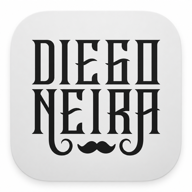
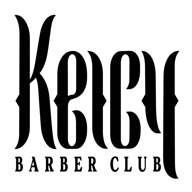
feat: actualizar branding completo a Keicy Barber Club
- Reemplazar logos e iconos PWA con nuevo logo de Keicy
- Actualizar referencias de Diego Neira a Keicy Barber Club en:
  - HTML (index, auth, recibo, resena, barbero, admin)
  - CSS (mobile-admin, agenda, barbero-white)
  - Funciones Supabase (emails, WhatsApp, calendar)
  - Configuración (robots.txt, sitemap.xml, sw.js)
- Actualizar redes sociales a @keicy_barber_club
- Eliminar logo antiguo logo-diego-neira.svg

diff --git a/index.html b/index.html
@@ -3132,7 +3132,7 @@
           <h2 class="section-title"><span class="gold">SEDES EN BOGOTÁ</span></h2>
           <p class="section-subtitle">BARBERÍA PREMIUM EN EL NORTE Y SUR DE BOGOTÁ</p>
         </div>
-        <a href="https://maps.google.com/?q=Diego+Neira+Barber+Bogota" target="_blank" class="btn-link">
+        <a href="https://maps.google.com/?q=Keicy+Barber+Club+Bogota" target="_blank" class="btn-link">
           VER EN MAPA
           <svg width="14" height="14" viewBox="0 0 24 24" fill="none" stroke="currentColor" stroke-width="2"><path d="M5 12h14M12 5l7 7-7 7"/></svg>
         </a>
@@ -3236,7 +3236,7 @@
           <h2 class="gallery-title"><span class="gold">GALERÍA</span></h2>
           <span class="gallery-subtitle">ESTILO REAL, RESULTADOS REALES</span>
         </div>
-        <a href="https://instagram.com/diego_neira_barber" target="_blank" class="btn-link">
+        <a href="https://instagram.com/keicy_barber_club" target="_blank" class="btn-link">
           VER MÁS
           <svg width="14" height="14" viewBox="0 0 24 24" fill="none" stroke="currentColor" stroke-width="2"><path d="M5 12h14M12 5l7 7-7 7"/></svg>
         </a>
@@ -3372,11 +3372,11 @@
           <svg viewBox="0 0 24 24" fill="currentColor"><path d="M17.472 14.382c-.297-.149-1.758-.867-2.03-.967-.273-.099-.471-.148-.67.15-.197.297-.767.966-.94 1.164-.173.199-.347.223-.644.075-.297-.15-1.255-.463-2.39-1.475-.883-.788-1.48-1.761-1.653-2.059-.173-.297-.018-.458.13-.606.134-.133.298-.347.446-.52.149-.174.198-.298.298-.497.099-.198.05-.371-.025-.52-.075-.149-.669-1.612-.916-2.207-.242-.579-.487-.5-.669-.51-.173-.008-.371-.01-.57-.01-.198 0-.52.074-.792.372-.272.297-1.04 1.016-1.04 2.479 0 1.462 1.065 2.875 1.213 3.074.149.198 2.096 3.2 5.077 4.487.709.306 1.262.489 1.694.625.712.227 1.36.195 1.871.118.571-.085 1.758-.719 2.006-1.413.248-.694.248-1.289.173-1.413-.074-.124-.272-.198-.57-.347m-5.421 7.403h-.004a9.87 9.87 0 01-5.031-1.378l-.361-.214-3.741.982.998-3.648-.235-.374a9.86 9.86 0 01-1.51-5.26c.001-5.45 4.436-9.884 9.888-9.884 2.64 0 5.122 1.03 6.988 2.898a9.825 9.825 0 012.893 6.994c-.003 5.45-4.437 9.884-9.885 9.884m8.413-18.297A11.815 11.815 0 0012.05 0C5.495 0 .16 5.335.157 11.892c0 2.096.547 4.142 1.588 5.945L.057 24l6.305-1.654a11.882 11.882 0 005.683 1.448h.005c6.554 0 11.89-5.335 11.893-11.893a11.821 11.821 0 00-3.48-8.413z"/></svg>
           <span>ESCRÍBENOS<br>POR WHATSAPP</span>
         </a>
-        <a href="https://instagram.com/diego_neira_barber" target="_blank">
+        <a href="https://instagram.com/keicy_barber_club" target="_blank">
           <svg viewBox="0 0 24 24" fill="currentColor"><path d="M12 2.163c3.204 0 3.584.012 4.85.07 3.252.148 4.771 1.691 4.919 4.919.058 1.265.069 1.645.069 4.849 0 3.205-.012 3.584-.069 4.849-.149 3.225-1.664 4.771-4.919 4.919-1.266.058-1.644.07-4.85.07-3.204 0-3.584-.012-4.849-.07-3.26-.149-4.771-1.699-4.919-4.92-.058-1.265-.07-1.644-.07-4.849 0-3.204.013-3.583.07-4.849.149-3.227 1.664-4.771 4.919-4.919 1.266-.057 1.645-.069 4.849-.069zm0-2.163c-3.259 0-3.667.014-4.947.072-4.358.2-6.78 2.618-6.98 6.98-.059 1.281-.073 1.689-.073 4.948 0 3.259.014 3.668.072 4.948.2 4.358 2.618 6.78 6.98 6.98 1.281.058 1.689.072 4.948.072 3.259 0 3.668-.014 4.948-.072 4.354-.2 6.782-2.618 6.979-6.98.059-1.28.073-1.689.073-4.948 0-3.259-.014-3.667-.072-4.947-.196-4.354-2.617-6.78-6.979-6.98-1.281-.059-1.69-.073-4.949-.073zm0 5.838c-3.403 0-6.162 2.759-6.162 6.162s2.759 6.163 6.162 6.163 6.162-2.759 6.162-6.163c0-3.403-2.759-6.162-6.162-6.162zm0 10.162c-2.209 0-4-1.79-4-4 0-2.209 1.791-4 4-4s4 1.791 4 4c0 2.21-1.791 4-4 4zm6.406-11.845c-.796 0-1.441.645-1.441 1.44s.645 1.44 1.441 1.44c.795 0 1.439-.645 1.439-1.44s-.644-1.44-1.439-1.44z"/></svg>
           <span>SÍGUENOS EN<br>INSTAGRAM</span>
         </a>
-        <a href="https://tiktok.com/@diego_neira_barber" target="_blank">
+        <a href="https://tiktok.com/@keicy_barber_club" target="_blank">
           <svg viewBox="0 0 24 24" fill="currentColor"><path d="M19.59 6.69a4.83 4.83 0 01-3.77-4.25V2h-3.45v13.67a2.89 2.89 0 01-5.2 1.74 2.89 2.89 0 012.31-4.64 2.93 2.93 0 01.88.13V9.4a6.84 6.84 0 00-1-.05A6.33 6.33 0 005 20.1a6.34 6.34 0 0010.86-4.43v-7a8.16 8.16 0 004.77 1.52v-3.4a4.85 4.85 0 01-1-.1z"/></svg>
           <span>SÍGUENOS EN<br>TIKTOK</span>
         </a>
@@ -3391,7 +3391,7 @@
         <div class="logo">
           <img src="assets/logo-transparent.png" alt="Keicy Barber">
         </div>
-        <p class="footer-tagline">DIEGO NEIRA BARBER CLUB®</p>
+        <p class="footer-tagline">KEICY BARBER CLUB®</p>
         <p class="footer-location">Bogotá, Colombia</p>
       </div>
 
@@ -3423,14 +3423,14 @@
           <a href="https://wa.me/573212319355" target="_blank" aria-label="WhatsApp">
             <svg viewBox="0 0 24 24" fill="currentColor"><path d="M17.472 14.382c-.297-.149-1.758-.867-2.03-.967-.273-.099-.471-.148-.67.15-.197.297-.767.966-.94 1.164-.173.199-.347.223-.644.075-.297-.15-1.255-.463-2.39-1.475-.883-.788-1.48-1.761-1.653-2.059-.173-.297-.018-.458.13-.606.134-.133.298-.347.446-.52.149-.174.198-.298.298-.497.099-.198.05-.371-.025-.52-.075-.149-.669-1.612-.916-2.207-.242-.579-.487-.5-.669-.51-.173-.008-.371-.01-.57-.01-.198 0-.52.074-.792.372-.272.297-1.04 1.016-1.04 2.479 0 1.462 1.065 2.875 1.213 3.074.149.198 2.096 3.2 5.077 4.487.709.306 1.262.489 1.694.625.712.227 1.36.195 1.871.118.571-.085 1.758-.719 2.006-1.413.248-.694.248-1.289.173-1.413-.074-.124-.272-.198-.57-.347m-5.421 7.403h-.004a9.87 9.87 0 01-5.031-1.378l-.361-.214-3.741.982.998-3.648-.235-.374a9.86 9.86 0 01-1.51-5.26c.001-5.45 4.436-9.884 9.888-9.884 2.64 0 5.122 1.03 6.988 2.898a9.825 9.825 0 012.893 6.994c-.003 5.45-4.437 9.884-9.885 9.884m8.413-18.297A11.815 11.815 0 0012.05 0C5.495 0 .16 5.335.157 11.892c0 2.096.547 4.142 1.588 5.945L.057 24l6.305-1.654a11.882 11.882 0 005.683 1.448h.005c6.554 0 11.89-5.335 11.893-11.893a11.821 11.821 0 00-3.48-8.413z"/></svg>
           </a>
-          <a href="https://instagram.com/diego_neira_barber" target="_blank" aria-label="Instagram">
+          <a href="https://instagram.com/keicy_barber_club" target="_blank" aria-label="Instagram">
             <svg viewBox="0 0 24 24" fill="currentColor"><path d="M12 2.163c3.204 0 3.584.012 4.85.07 3.252.148 4.771 1.691 4.919 4.919.058 1.265.069 1.645.069 4.849 0 3.205-.012 3.584-.069 4.849-.149 3.225-1.664 4.771-4.919 4.919-1.266.058-1.644.07-4.85.07-3.204 0-3.584-.012-4.849-.07-3.26-.149-4.771-1.699-4.919-4.92-.058-1.265-.07-1.644-.07-4.849 0-3.204.013-3.583.07-4.849.149-3.227 1.664-4.771 4.919-4.919 1.266-.057 1.645-.069 4.849-.069zm0-2.163c-3.259 0-3.667.014-4.947.072-4.358.2-6.78 2.618-6.98 6.98-.059 1.281-.073 1.689-.073 4.948 0 3.259.014 3.668.072 4.948.2 4.358 2.618 6.78 6.98 6.98 1.281.058 1.689.072 4.948.072 3.259 0 3.668-.014 4.948-.072 4.354-.2 6.782-2.618 6.979-6.98.059-1.28.073-1.689.073-4.948 0-3.259-.014-3.667-.072-4.947-.196-4.354-2.617-6.78-6.979-6.98-1.281-.059-1.69-.073-4.949-.073zm0 5.838c-3.403 0-6.162 2.759-6.162 6.162s2.759 6.163 6.162 6.163 6.162-2.759 6.162-6.163c0-3.403-2.759-6.162-6.162-6.162zm0 10.162c-2.209 0-4-1.79-4-4 0-2.209 1.791-4 4-4s4 1.791 4 4c0 2.21-1.791 4-4 4zm6.406-11.845c-.796 0-1.441.645-1.441 1.44s.645 1.44 1.441 1.44c.795 0 1.439-.645 1.439-1.44s-.644-1.44-1.439-1.44z"/></svg>
           </a>
-          <a href="https://tiktok.com/@diego_neira_barber" target="_blank" aria-label="TikTok">
+          <a href="https://tiktok.com/@keicy_barber_club" target="_blank" aria-label="TikTok">
             <svg viewBox="0 0 24 24" fill="currentColor"><path d="M19.59 6.69a4.83 4.83 0 01-3.77-4.25V2h-3.45v13.67a2.89 2.89 0 01-5.2 1.74 2.89 2.89 0 012.31-4.64 2.93 2.93 0 01.88.13V9.4a6.84 6.84 0 00-1-.05A6.33 6.33 0 005 20.1a6.34 6.34 0 0010.86-4.43v-7a8.16 8.16 0 004.77 1.52v-3.4a4.85 4.85 0 01-1-.1z"/></svg>
           </a>
         </div>
-        <p class="footer-handle">@diego_neira_barber</p>
+        <p class="footer-handle">@keicy_barber_club</p>
       </div>
     </div>
 

diff --git a/supabase/functions/send-service-completed-email/index.ts b/supabase/functions/send-service-completed-email/index.ts
@@ -4,8 +4,8 @@ import { createClient } from "https://esm.sh/@supabase/supabase-js@2";
 const BREVO_API_KEY = Deno.env.get("BREVO_API_KEY");
 const SUPABASE_URL = Deno.env.get("SUPABASE_URL") || "";
 const SUPABASE_SERVICE_KEY = Deno.env.get("SUPABASE_SERVICE_ROLE_KEY") || "";
-const FROM_EMAIL = "citas@diegoneirabarber.com";
-const FROM_NAME = "Diego Neira Barbería";
+const FROM_EMAIL = "citas@keicybarberclub.com";
+const FROM_NAME = "Keicy Barber Club";
 
 interface ServicioCompletadoData {
   cliente_nombre: string;
@@ -69,7 +69,7 @@ function generateEmailHTML(data: ServicioCompletadoData): string {
     ? data.metodo_pago.charAt(0).toUpperCase() + data.metodo_pago.slice(1)
     : "";
 
-  const resenaLink = `https://www.diegoneirabarber.com/resena/?c=${encodeURIComponent(data.cita_id)}`;
+  const resenaLink = `https://www.keicybarberclub.com/resena/?c=${encodeURIComponent(data.cita_id)}`;
   const googleMapsLink = data.google_maps_link || "https://g.page/r/Cac1YymF3Bu0EBM/review";
 
   return `
@@ -78,7 +78,7 @@ function generateEmailHTML(data: ServicioCompletadoData): string {
 <head>
   <meta charset="UTF-8">
   <meta name="viewport" content="width=device-width, initial-scale=1.0">
-  <title>Gracias por tu visita - Diego Neira Barbería</title>
+  <title>Gracias por tu visita - Keicy Barber Club</title>
 </head>
 <body style="margin:0; padding:0; background-color:#FFFFFF; font-family:'Georgia', 'Times New Roman', serif;">
   <table role="presentation" width="100%" cellspacing="0" cellpadding="0" style="background-color:#FFFFFF;">
@@ -92,7 +92,7 @@ function generateEmailHTML(data: ServicioCompletadoData): string {
               <table role="presentation" width="100" height="100" cellspacing="0" cellpadding="0" style="margin:0 auto;">
                 <tr>
                   <td align="center" valign="middle" style="width:100px; height:100px; border-radius:50%; background-color:#FFFFFF; border:2px solid #E5E5E5;">
-                    <img src="https://www.diegoneirabarber.com/assets/logo.png" alt="Diego Neira Barbería" width="60" height="60" style="width:60px; height:60px; display:block;">
+                    <img src="https://www.keicybarberclub.com/assets/logo.png" alt="Keicy Barber Club" width="60" height="60" style="width:60px; height:60px; display:block;">
                   </td>
                 </tr>
               </table>
@@ -159,7 +159,7 @@ function generateEmailHTML(data: ServicioCompletadoData): string {
                       <tr>
                         <td width="50%">
                           <p style="margin:0; color:#D4AF55; font-size:11px; font-weight:700; text-transform:uppercase; letter-spacing:1px; font-family:-apple-system, BlinkMacSystemFont, 'Segoe UI', Roboto, sans-serif;">Atendido por</p>
-                          <p style="margin:6px 0 0; color:#111111; font-size:14px; font-weight:600; font-family:-apple-system, BlinkMacSystemFont, 'Segoe UI', Roboto, sans-serif;">${data.barbero_nombre || "Diego Neira Barbería"}</p>
+                          <p style="margin:6px 0 0; color:#111111; font-size:14px; font-weight:600; font-family:-apple-system, BlinkMacSystemFont, 'Segoe UI', Roboto, sans-serif;">${data.barbero_nombre || "Keicy Barber Club"}</p>
                         </td>
                         <td width="50%">
                           <p style="margin:0; color:#D4AF55; font-size:11px; font-weight:700; text-transform:uppercase; letter-spacing:1px; font-family:-apple-system, BlinkMacSystemFont, 'Segoe UI', Roboto, sans-serif;">Sede</p>
@@ -236,7 +236,7 @@ function generateEmailHTML(data: ServicioCompletadoData): string {
           <tr>
             <td align="center" style="padding:0 24px 32px;">
               <p style="margin:0; color:#999999; font-size:11px; font-family:-apple-system, BlinkMacSystemFont, 'Segoe UI', Roboto, sans-serif;">
-                Diego Neira Barbería · ${data.sede_direccion}
+                Keicy Barber Club · ${data.sede_direccion}
               </p>
             </td>
           </tr>

diff --git a/supabase/functions/send-confirmation-email/index.ts b/supabase/functions/send-confirmation-email/index.ts
@@ -4,8 +4,8 @@ import { createClient } from "https://esm.sh/@supabase/supabase-js@2";
 const BREVO_API_KEY = Deno.env.get("BREVO_API_KEY");
 const SUPABASE_URL = Deno.env.get("SUPABASE_URL") || "";
 const SUPABASE_SERVICE_KEY = Deno.env.get("SUPABASE_SERVICE_ROLE_KEY") || "";
-const FROM_EMAIL = "citas@diegoneirabarber.com";
-const FROM_NAME = "Diego Neira Barbería";
+const FROM_EMAIL = "citas@keicybarberclub.com";
+const FROM_NAME = "Keicy Barber Club";
 
 interface CitaData {
   cita_id: string;
@@ -78,7 +78,7 @@ function generateCalendarLinks(data: CitaData): { google: string; outlook: strin
   const startStr = formatGoogleDate(startDate);
   const endStr = formatGoogleDate(endDate);
 
-  const title = encodeURIComponent(`Cita en Diego Neira Barbería - ${data.servicio_nombre}`);
+  const title = encodeURIComponent(`Cita en Keicy Barber Club - ${data.servicio_nombre}`);
   const location = encodeURIComponent(`${data.sede_nombre}, ${data.sede_direccion}`);
   const details = encodeURIComponent(
     `Servicio: ${data.servicio_nombre}\n` +
@@ -108,10 +108,10 @@ function generateCalendarLinks(data: CitaData): { google: string; outlook: strin
   const ics = `https://zzmtnjlfrlqmouijfste.supabase.co/functions/v1/calendar-ics?${icsParams.toString()}`;
 
   // Link de cancelación
-  const cancelUrl = `https://www.diegoneirabarber.com/cancelar/?phone=${data.cliente_telefono}`;
+  const cancelUrl = `https://www.keicybarberclub.com/cancelar/?phone=${data.cliente_telefono}`;
 
   // Link de confirmación
-  const confirmUrl = `https://www.diegoneirabarber.com/confirmar/?id=${data.cita_id}`;
+  const confirmUrl = `https://www.keicybarberclub.com/confirmar/?id=${data.cita_id}`;
 
   return { google, outlook, ics, cancel: cancelUrl, confirm: confirmUrl };
 }
@@ -137,7 +137,7 @@ function generateEmailHTML(data: CitaData): string {
 <head>
   <meta charset="UTF-8">
   <meta name="viewport" content="width=device-width, initial-scale=1.0">
-  <title>Cita Agendada - Diego Neira Barbería</title>
+  <title>Cita Agendada - Keicy Barber Club</title>
 </head>
 <body style="margin:0; padding:0; background-color:#FFFFFF; font-family:'Georgia', 'Times New Roman', serif;">
   <table role="presentation" width="100%" cellspacing="0" cellpadding="0" style="background-color:#FFFFFF;">
@@ -148,7 +148,7 @@ function generateEmailHTML(data: CitaData): string {
           <!-- Logo -->
           <tr>
             <td align="center" style="padding:32px 24px 24px; text-align:center;">
-              <img src="https://www.diegoneirabarber.com/assets/logo.png" alt="Diego Neira Barbería" width="120" style="width:120px; height:auto; display:block; margin:0 auto;">
+              <img src="https://www.keicybarberclub.com/assets/logo.png" alt="Keicy Barber Club" width="120" style="width:120px; height:auto; display:block; margin:0 auto;">
             </td>
           </tr>
 
@@ -338,7 +338,7 @@ function generateEmailHTML(data: CitaData): string {
           <tr>
             <td align="center" style="padding:0 24px 32px;">
               <p style="margin:0; color:#999999; font-size:11px; font-family:-apple-system, BlinkMacSystemFont, 'Segoe UI', Roboto, sans-serif;">
-                Diego Neira Barbería
+                Keicy Barber Club
               </p>
             </td>
           </tr>

diff --git a/supabase/functions/calendar-ics/index.ts b/supabase/functions/calendar-ics/index.ts
@@ -16,7 +16,7 @@ serve(async (req) => {
     const hora = url.searchParams.get("hora") || "";
     const servicio = url.searchParams.get("servicio") || "Cita";
     const barbero = url.searchParams.get("barbero") || "Barbero disponible";
-    const sede = url.searchParams.get("sede") || "Diego Neira Barbería";
+    const sede = url.searchParams.get("sede") || "Keicy Barber Club";
     const direccion = url.searchParams.get("direccion") || "";
     const precio = url.searchParams.get("precio") || "0";
 
@@ -33,15 +33,15 @@ serve(async (req) => {
     const icsContent = [
       "BEGIN:VCALENDAR",
       "VERSION:2.0",
-      "PRODID:-//Diego Neira Barbería//ES",
+      "PRODID:-//Keicy Barber Club//ES",
       "CALSCALE:GREGORIAN",
       "METHOD:PUBLISH",
       "BEGIN:VEVENT",
-      `UID:${Date.now()}@diegoneirabarber.com`,
+      `UID:${Date.now()}@keicybarberclub.com`,
       `DTSTAMP:${formatICSDate(new Date())}`,
       `DTSTART:${formatICSDate(startDate)}`,
       `DTEND:${formatICSDate(endDate)}`,
-      `SUMMARY:Cita en Diego Neira - ${servicio}`,
+      `SUMMARY:Cita en Keicy Barber - ${servicio}`,
       `DESCRIPTION:Servicio: ${servicio}\\nBarbero: ${barbero}\\nPrecio: $${Number(precio).toLocaleString()} COP\\n\\n¡Te esperamos!`,
       `LOCATION:${sede}${direccion ? ", " + direccion : ""}`,
       "STATUS:CONFIRMED",
@@ -53,7 +53,7 @@ serve(async (req) => {
       headers: {
         ...corsHeaders,
         "Content-Type": "text/calendar; charset=utf-8",
-        "Content-Disposition": "attachment; filename=cita-diego-neira.ics"
+        "Content-Disposition": "attachment; filename=cita-keicy-barber-club.ics"
       }
     });
   } catch (error) {

diff --git a/admin/barberos.html b/admin/barberos.html
@@ -634,7 +634,7 @@
         <div class="field"><label>Años de experiencia</label><input type="number" id="editAnos" min="0" max="60"></div>
       </div>
       <div class="field" id="editPagoDiarioField" style="display:none;"><label>Pago diario ($)</label><input type="number" id="editPagoDiario" min="0"></div>
-      <div class="field"><label>Instagram (sin @)</label><input type="text" id="editInstagram" placeholder="diegoneira_barber"></div>
+      <div class="field"><label>Instagram (sin @)</label><input type="text" id="editInstagram" placeholder="keicy_barber"></div>
       <div class="field">
         <label>Día de descanso (siempre bloqueado)</label>
         <select id="editDiaDescanso">
@@ -923,7 +923,7 @@
 <script src="../assets/admin-sede-nav.js"></script>
 
 <script>
-  const BARBER_INVITE_CODE = 'DIEGO-NEIRA-BARBERO-2026';
+  const BARBER_INVITE_CODE = 'KEICY-BARBER-CLUB-2026';
   const DIA_NOMBRE = ['Domingo','Lunes','Martes','Miércoles','Jueves','Viernes','Sábado'];
 
   const toastEl = document.getElementById('toast');
@@ -1876,8 +1876,8 @@
     const a = admins.find(x => x.id === currentEditAdminId);
     if (!a) return;
 
-    // No permitir eliminar al admin principal (diegoneira)
-    if (a.username === 'diegoneira') {
+    // No permitir eliminar al admin principal (keicy)
+    if (a.username === 'keicy' || a.username === 'admin') {
       toast('No puedes eliminar al administrador principal.');
       return;
     }

diff --git a/supabase/functions/whatsapp-test-send/index.ts b/supabase/functions/whatsapp-test-send/index.ts
@@ -18,7 +18,7 @@ const SEDES = {
 
 const TEMPLATE_CONFIRMACION = 'confirmacion';
 const TEMPLATE_CONFIRMACION_165 = 'confirmacion_cita';
-const HEADER_IMAGE_URL = 'https://diegoneirabarber.com/assets/whatsapp-header.jpg';
+const HEADER_IMAGE_URL = 'https://keicybarberclub.com/assets/whatsapp-header.jpg';
 
 async function sendTemplateMessage(
   phoneNumberId: string,
@@ -52,7 +52,7 @@ async function sendTemplateMessage(
             { type: 'text', text: 'Hoy' },
             { type: 'text', text: fechaCompleta },
             { type: 'text', text: '3:00 PM' },
-            { type: 'text', text: 'Diego Neira' }
+            { type: 'text', text: 'Keicy Barber' }
           ]
         },
         {
@@ -135,11 +135,11 @@ serve(async (req) => {
           type: 'body',
           parameters: [
             { type: 'text', text: 'Test' },
-            { type: 'text', text: 'Diego Neira Barbería Calle 165' },
+            { type: 'text', text: 'Keicy Barber Club' },
             { type: 'text', text: 'Hoy' },
             { type: 'text', text: fechaCompleta165 },
             { type: 'text', text: '3:00 PM' },
-            { type: 'text', text: 'Diego Neira' }
+            { type: 'text', text: 'Keicy Barber' }
           ]
         },
         {

diff --git a/supabase/functions/send-confirmations-165/index.ts b/supabase/functions/send-confirmations-165/index.ts
@@ -2,7 +2,7 @@ import { serve } from 'https://deno.land/std@0.168.0/http/server.ts';
 
 const PHONE_NUMBER_ID_165 = '687040821167199';
 const TEMPLATE_NAME = 'confirmacion_cita';
-const HEADER_IMAGE_URL = 'https://diegoneirabarber.com/assets/whatsapp-header.jpg';
+const HEADER_IMAGE_URL = 'https://keicybarberclub.com/assets/whatsapp-header.jpg';
 
 const CITAS = [
   // 18:00
@@ -43,7 +43,7 @@ serve(async (req) => {
             type: 'body',
             parameters: [
               { type: 'text', text: cita.cliente },
-              { type: 'text', text: 'Diego Neira Barbería Calle 165' },
+              { type: 'text', text: 'Keicy Barber Club' },
               { type: 'text', text: 'Hoy' },
               { type: 'text', text: '3 de octubre de 2026' },
               { type: 'text', text: cita.hora },

diff --git a/admin/reportes.html b/admin/reportes.html
@@ -723,7 +723,7 @@
     addSection('Ingresos por método de pago', Object.entries(porMetodo).sort((a,b)=>b[1]-a[1]).map(([n,v])=>[n, dnFormatCOP(v)]), ['Método','Total']);
     addSection('Gastos por concepto', Object.entries(porGasto).sort((a,b)=>b[1]-a[1]).map(([n,v])=>[n, dnFormatCOP(v)]), ['Concepto','Monto']);
 
-    doc.save(`reporte-diego-neira-${from}_a_${to}.pdf`);
+    doc.save(`reporte-keicy-barber-club-${from}_a_${to}.pdf`);
     toast('PDF descargado.');
   }
 
@@ -772,7 +772,7 @@
     ];
     XLSX.utils.book_append_sheet(wb, XLSX.utils.aoa_to_sheet(citasRows), 'Citas detalle');
 
-    XLSX.writeFile(wb, `reporte-diego-neira-${from}_a_${to}.xlsx`);
+    XLSX.writeFile(wb, `reporte-keicy-barber-club-${from}_a_${to}.xlsx`);
     toast('Excel descargado.');
   }
 

diff --git a/supabase/functions/otp-send/index.ts b/supabase/functions/otp-send/index.ts
@@ -1,6 +1,6 @@
 // =====================================================
 // OTP Send - Edge Function para Club de Leales
-// Diego Neira Barbería
+// Keicy Barber Club
 // =====================================================
 //
 // Esta función maneja el envío de códigos OTP por WhatsApp
@@ -66,7 +66,7 @@ async function sendWhatsAppOTP(to: string, codigo: string, nombreCliente: string
     to: formattedPhone,
     type: 'text',
     text: {
-      body: `Hola ${nombreCliente}! Tu código de verificación para Club de Leales Diego Neira es: *${codigo}*
+      body: `Hola ${nombreCliente}! Tu código de verificación para Club de Leales Keicy Barber es: *${codigo}*
 
 Este código expira en 5 minutos.
 

diff --git a/supabase/functions/embedded-signup-page/index.ts b/supabase/functions/embedded-signup-page/index.ts
@@ -73,7 +73,7 @@ serve(async (req) => {
 <head>
   <meta charset="UTF-8">
   <meta name="viewport" content="width=device-width, initial-scale=1.0">
-  <title>Diego Neira Barbería - WhatsApp Business Setup</title>
+  <title>Keicy Barber Club - WhatsApp Business Setup</title>
   <style>
     * {
       box-sizing: border-box;
@@ -276,7 +276,7 @@ serve(async (req) => {
 <body>
   <div class="container">
     <div class="logo">
-      <h1>Diego Neira Barbería</h1>
+      <h1>Keicy Barber Club</h1>
       <p>Configuración de WhatsApp Business</p>
     </div>
 

diff --git a/auth.html b/auth.html
@@ -85,7 +85,7 @@
     <!-- Campos de login -->
     <div class="field" id="fieldUsername">
       <label>Usuario o correo</label>
-      <input type="text" id="username" placeholder="ej. diego.neira o correo@mail.com" autocomplete="off">
+      <input type="text" id="username" placeholder="ej. usuario o correo@mail.com" autocomplete="off">
     </div>
     <div class="field" id="fieldPassword">
       <label>Clave <span style="font-weight:400;color:var(--text-secondary);font-size:11px;">(no necesaria para barberos)</span></label>

diff --git a/recibo/index.html b/recibo/index.html
@@ -334,7 +334,7 @@
 
 <div id="app">
   <div class="header">
-    <img src="../assets/logo-diego-neira.svg" alt="Keicy Barber" class="brand-logo" onerror="this.style.display='none'">
+    <img src="../assets/logo.png" alt="Keicy Barber Club" class="brand-logo" onerror="this.style.display='none'">
     <div class="header-badge">
       <svg viewBox="0 0 24 24" fill="none" stroke="currentColor" stroke-width="2.5"><path d="M20 6L9 17l-5-5"/></svg>
       Pagado
